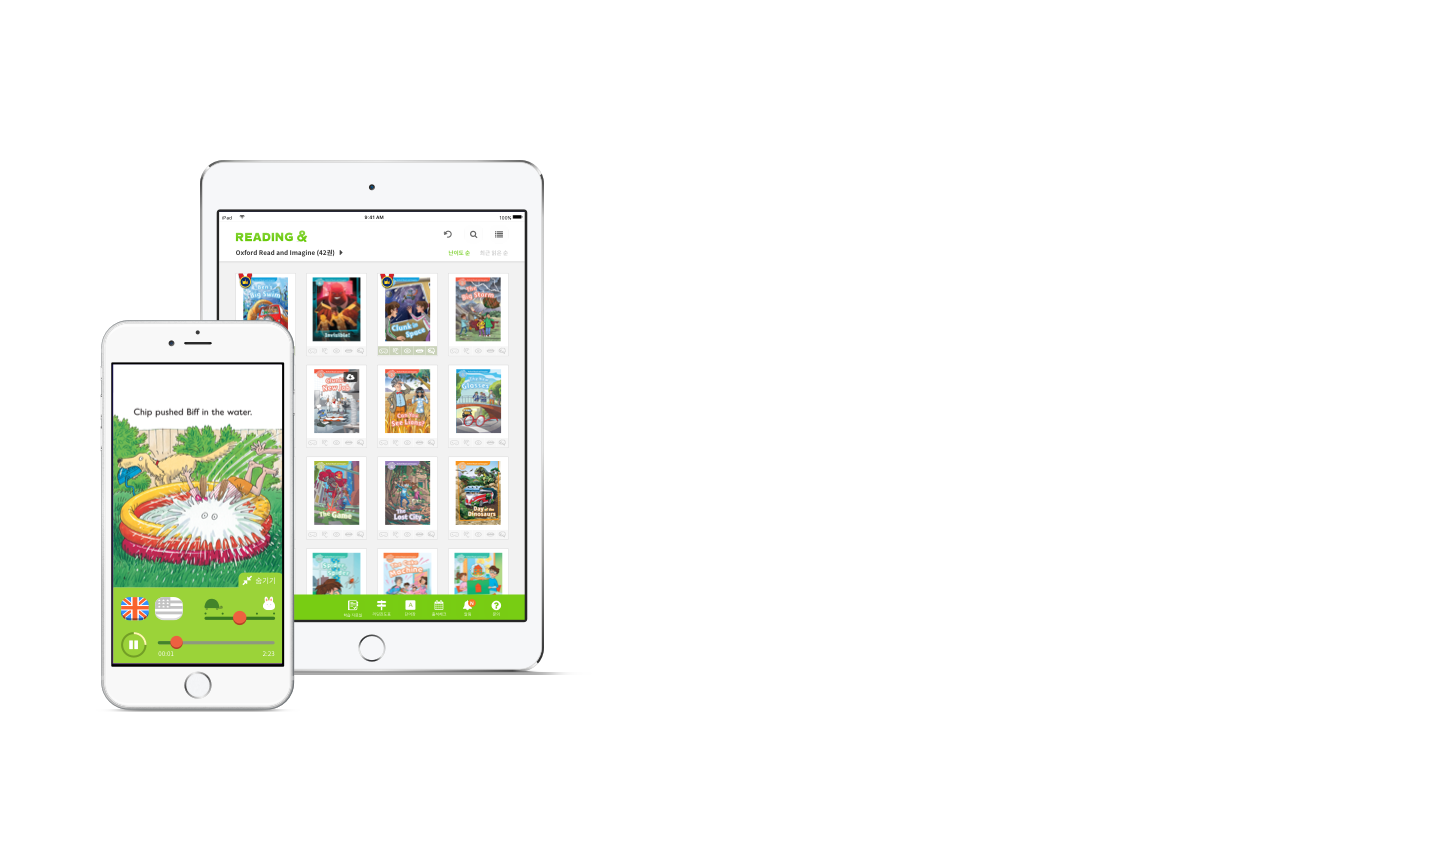
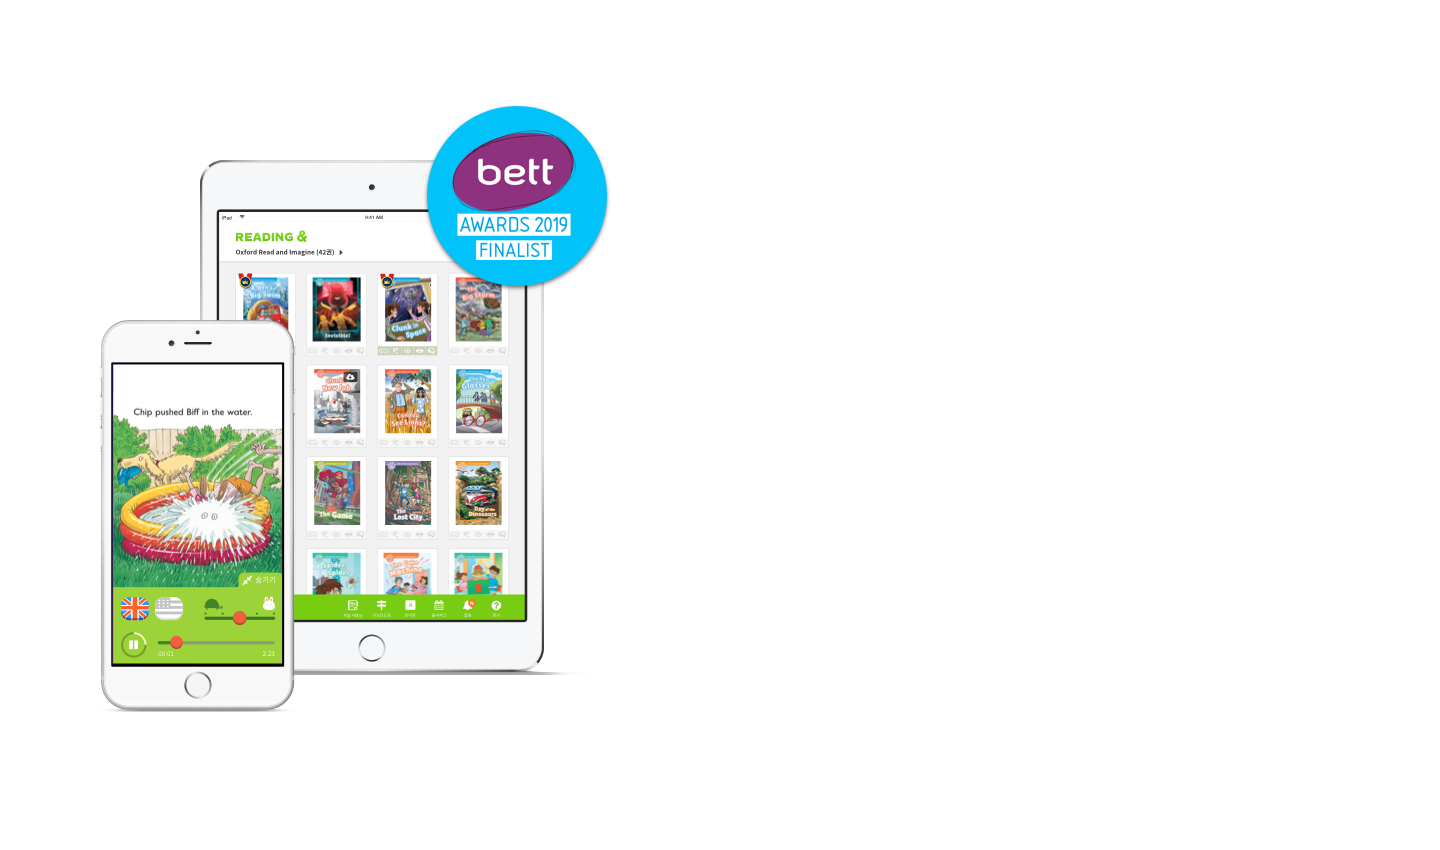
Update content (READING &, Mark, Footer)

diff --git a/src/index.html b/src/index.html
@@ -351,13 +351,6 @@
       </div>
     </section>
 
-    <section id="ed-start">
-      <div class="container">
-        <img src="contents/img/ed-start/ic-aws-badge.png" />
-        <h4>AWS EdStart Member since 2019</h4>
-      </div>
-    </section>
-
     <section id="career">
       <div class="container">
         <h3>Career</h3>
@@ -436,10 +429,24 @@
       </div>
     </section>
 
+    <section id="mark">
+      <div class="container">
+        <a href="http://bettawards.com/shortlist2020" target="_blank">
+          <img src="contents/img/mark/ic-mark-bett.png" />
+        </a>
+        <a href="https://aws.amazon.com/education/edstart/?nc1=h_ls" target="_blank">
+          <img src="contents/img/mark/ic-mark-aws.png" class="mark-aws" />
+        </a>
+        <a href="https://www.esu.org" target="_blank">
+          <img src="contents/img/mark/ic-mark-esu.png" />
+        </a>
+      </div>
+    </section>
+
     <footer>
       <div class="container">
         <span class="copyright">&copy; iPortfolio Inc. All rights reserved.</span>
-        <a href="https://www.facebook.com/ipofo/" class="facebook" target="_bland"><img src="contents/img/icons/ic-fb.png" alt="facebook logo icon" /></a>
+        <a href="https://www.facebook.com/ipofo/" class="facebook" target="_bland"><img src="contents/img/icons/ic-fb.svg" alt="facebook logo icon" /></a>
       </div>
     </footer>
   </div><!-- /wrap -->

diff --git a/src/contents/css/scss-brand/modules/base.scss b/src/contents/css/scss-brand/modules/base.scss
@@ -48,11 +48,12 @@
 
   #btn-top {
     position: fixed;
-    bottom: 5%;
+    bottom: 11%;
     right: 4%;
     z-index: 99999;
     padding: .8% 1.5%;
     background: #000;
+    border-radius: 1px;
     box-shadow: 0 14px 33px rgba(0,0,0,0.6);
     text-align: center;
     font-size: 0.9rem;
@@ -456,25 +457,6 @@
     }
   }
 
-  #ed-start {
-    padding: 20px 0;
-    background: #C5DF43;
-    text-align: center;
-
-    img {
-      display: inline-block;
-      margin-right: 40px;
-      vertical-align: bottom;
-      width: 130px;
-    }
-
-    h4 {
-      display: inline-block;
-      padding-bottom: 35px;
-      font-size: 40px;
-    }
-  }
-
   #news {
     background: #fff;
 
@@ -601,9 +583,25 @@
     }
   }
 
+  #mark {
+    padding: 2% 0 1%;
+    background: #F9F9F9;
+    text-align: center;
+
+    img {
+      display: inline-block;
+      width: 17%;
+    }
+    
+    .mark-aws {
+      margin-right: 20px;
+      margin-left: 10px;
+    }    
+  }
+
   footer {
-    padding: 30px 0 20px;
-    background: #f5f5f5;
+    padding: 20px 0 15px;
+    background: #333;
     font-size: .9rem;
 
     .container:after {
@@ -614,12 +612,11 @@
     .copyright {
       float: left;
       margin-top: 2px;
+      color: #fff;
     }
     .facebook img {
       float: right;
       width: 30px;
-      border-radius: 100%;
-      background: #fff;
     }
   }
 } // **endwrap**

diff --git a/src/contents/css/scss-brand/modules/responsive.scss b/src/contents/css/scss-brand/modules/responsive.scss
@@ -212,20 +212,6 @@
       background-attachment: scroll;
     }
 
-    #ed-start {
-      img {
-        margin-right: 0;
-        width: 17%;
-      }
-
-      h4 {
-        display: block;
-        padding-bottom: 0;
-        padding-top: 10px;
-        font-size: 2rem;
-      }
-    }
-
     #news {
       ul {
         width: 100%;
@@ -415,16 +401,6 @@
       }
     }
 
-    #ed-start {
-      img {
-        width: 30%;
-      }
-
-      h4 {
-        font-size: 1.6rem;
-      }
-    }
-
     #career {
       a {
         padding: 6% 0;
@@ -445,6 +421,18 @@
     #contact {
       dl {
         padding: 30px;
+      }
+    }
+
+    #mark {
+      padding: 4% 0 3%;
+
+      img {
+        width: 28%;
+      }
+
+      .mark-aws {
+        margin-left: 20px;
       }
     }
   }
